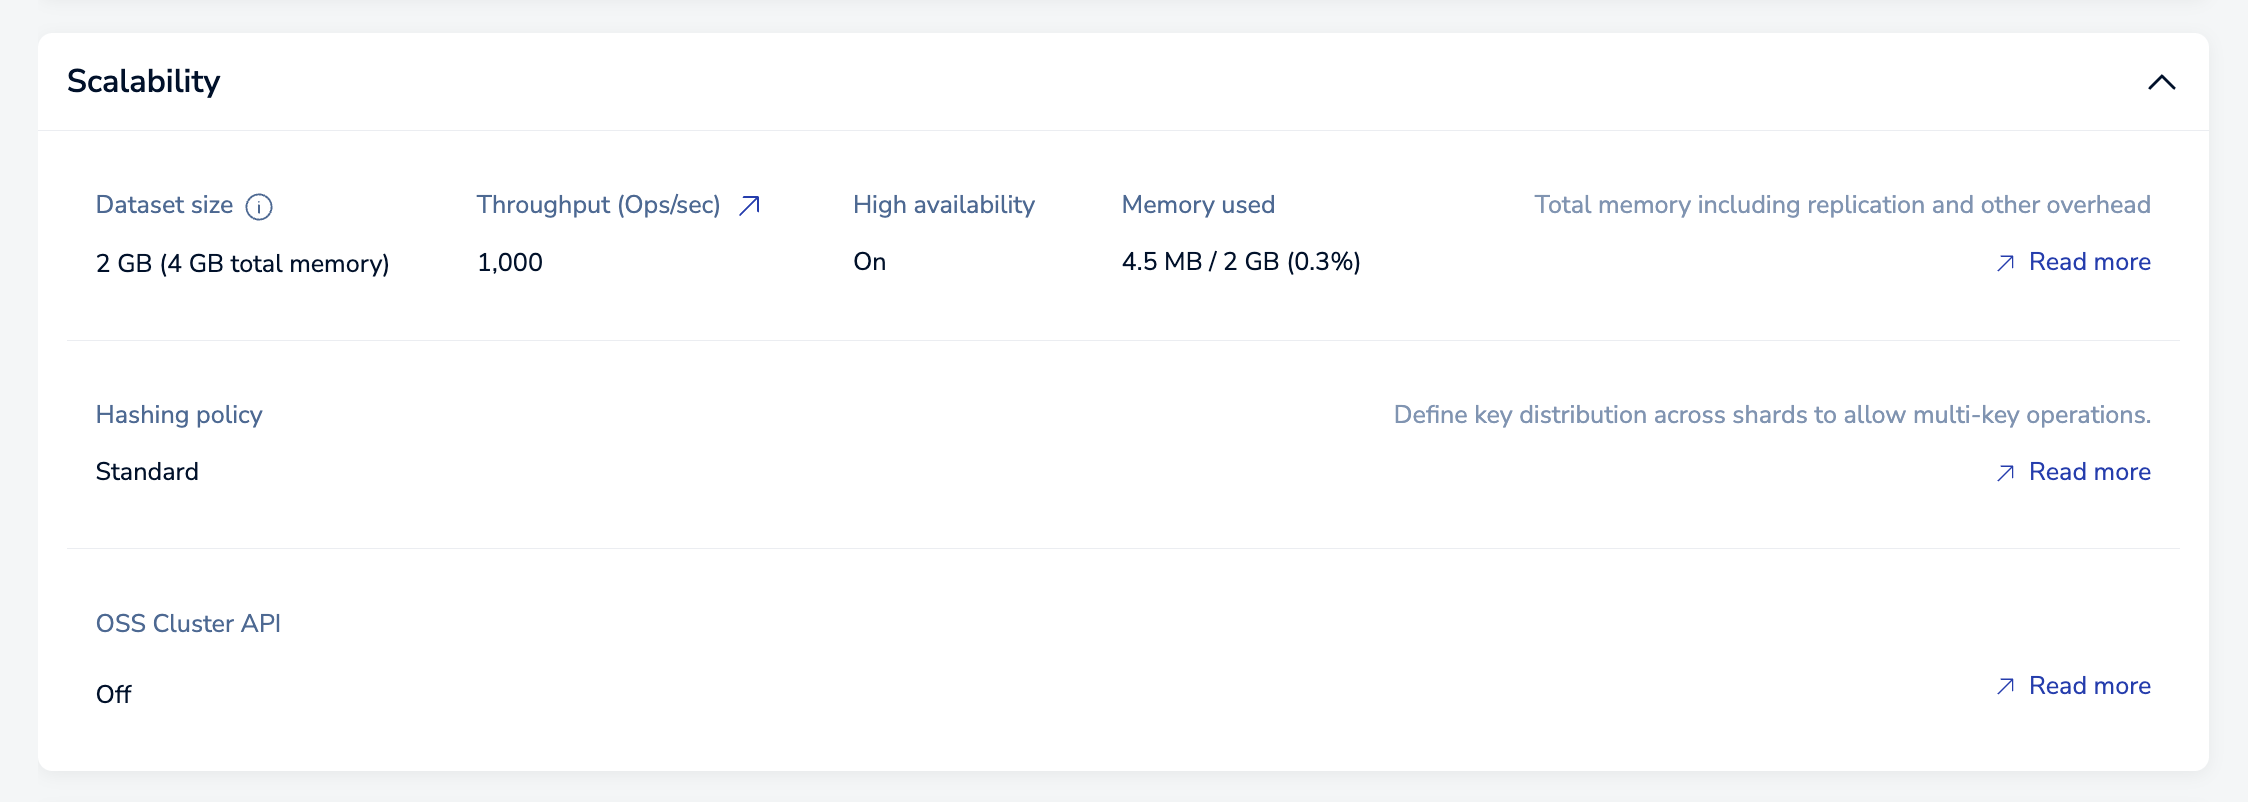
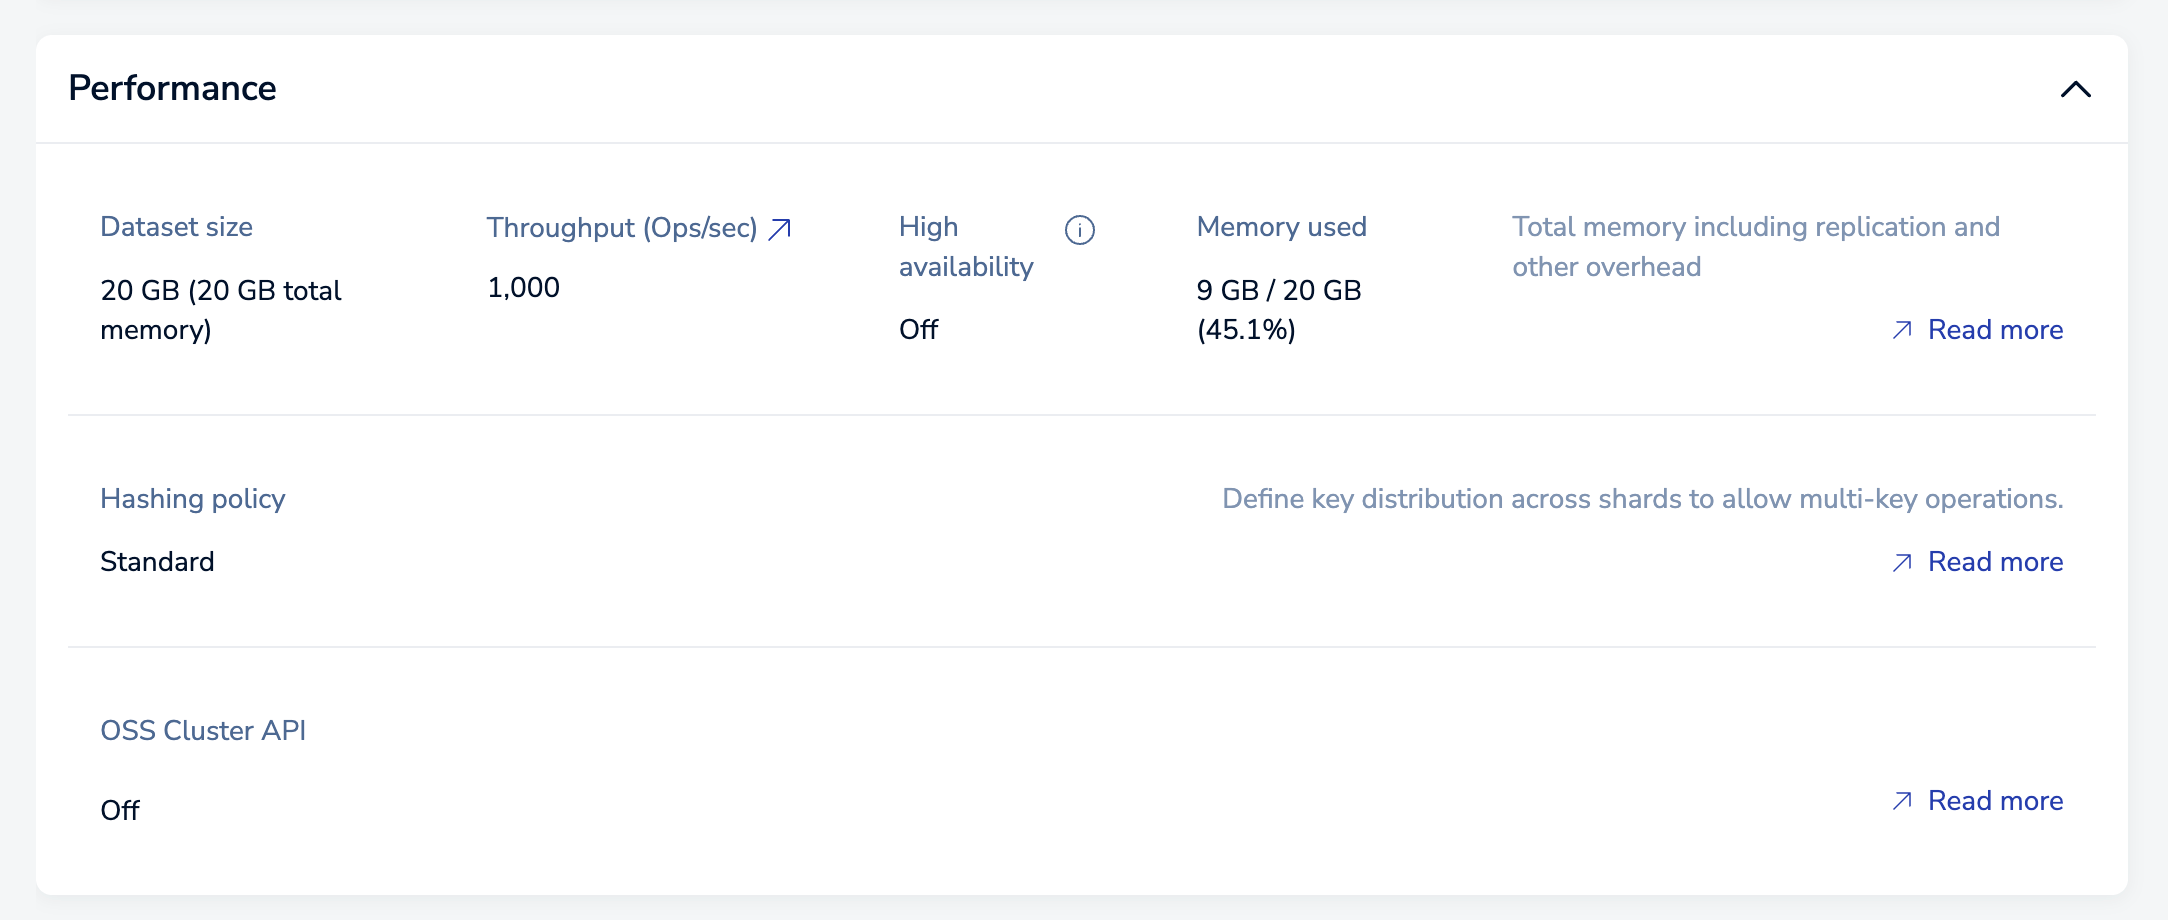
Change "Scalability" section to "Performance" section

diff --git a/content/operate/rc/databases/view-edit-database.md b/content/operate/rc/databases/view-edit-database.md
@@ -56,24 +56,22 @@ The available settings vary according to your plan, cloud provider, and design c
 | **Supported Protocol(s)** | Shows which version of RESP the database uses. See [Redis serialization protocol]({{< relref "/develop/reference/protocol-spec" >}}#resp-versions) for details |
 | **Advanced Capabilites**  | This setting appears when an [advanced capability]({{< relref "/operate/rc/databases/configuration/advanced-capabilities" >}}) is enabled for a database                                                  |
 
-### Scalability section
+### Performance section
 
-The **Scalability** section describes the memory size, throughput, and hashing policy for a database.
+The **Performance** section describes the memory size, throughput, and hashing policy for a database.
 
-{{<image filename="images/rc/database-details-configuration-tab-scalability-flexible.png" alt="Use the Scalability section to control the size, throughput, and hashing policy for a database." >}}
-
-The **Scalability** section is primarily for Redis Cloud Pro plans. Redis Cloud Essentials plans have options for memory limit and memory used.
+{{<image filename="images/rc/database-details-configuration-tab-scalability-flexible.png" alt="Use the Performance section to control the size, throughput, and hashing policy for a database." >}}
 
 | Setting name          |Description|
 |:----------------------|:----------|
-| **Dataset size** | Maximum size (in GB) for your dataset.  |
+| **Dataset size** | Maximum size (in GB) for your dataset. See [Dataset size]({{< relref "/operate/rc/configuration/sizing#dataset-size" >}}).  |
+| **Throughput**        | Defines [throughput]({{< relref "/operate/rc/configuration/sizing#throughput" >}}) in terms of maximum operations per second for the database (_Redis Cloud Pro only_). |
 | **Memory used**       | Memory currently used for your database.  |
-| **Throughput**        | Defines throughput in terms of maximum operations per second for the database |
 | **High availability**    | Replicates your data across multiple nodes; [available options]({{< relref "/operate/rc/databases/configuration/high-availability" >}}) depend on your plan type  |
-| **Hashing policy**    | Defines the [hashing policy]({{< relref "/operate/rc/databases/configuration/clustering#manage-the-hashing-policy" >}}).  |
-| **OSS Cluster API**       | Enables the [Cluster API]({{< relref "/operate/rc/databases/create-database#oss-cluster-api" >}}) for a database.<br/><br/>When this option is enabled, you cannot define a custom hashing policy.|
+| **Hashing policy**    | Defines the [hashing policy]({{< relref "/operate/rc/databases/configuration/clustering#manage-the-hashing-policy" >}}) (_Redis Cloud Pro only_).  |
+| **OSS Cluster API**       | Enables the [Cluster API]({{< relref "/operate/rc/configuration/clustering#cluster-api" >}}) for a database (_Redis Cloud Pro only_).<br/><br/>When this option is enabled, you cannot define a custom hashing policy.|
 
-To learn more about these settings and when to use them, see [Database clustering]({{< relref "/operate/rc/databases/configuration/clustering" >}}).
+To learn more about these settings and when to use them, see [Sizing]({{< relref "/operate/rc/configuration/sizing" >}}) and [Database clustering]({{< relref "/operate/rc/databases/configuration/clustering" >}}).
 
 ### Durability section
 
@@ -200,12 +198,12 @@ Here's what you can change:
 | General | Database name                  ||
 | | Supported protocol(s)                  ||
 | | Tags                                   ||
-| Scalability | Memory limit                   | |
+| Performance | Dataset size                   | |
+| | High-availability                     | _Paid plans only_ |
 | | Throughput                     | _Pro plans only_ |
 | | Hashing policy                 | _Pro plans only_ |
 | | OSS Cluster API                | _Pro plans only_ |
-| Durability | High-availability              | _Paid plans only_ |
-| | Data persistence               | _Paid plans only_ |
+| Durability | Data persistence                | _Paid plans only_ |
 | | Data eviction policy           | |
 | | Remote backup                  | _Paid plans only_ |
 | | Active-Passive Redis           | _Pro plans only_ |

diff --git a/content/operate/rc/databases/create-database/create-pro-database-existing.md b/content/operate/rc/databases/create-database/create-pro-database-existing.md
@@ -55,11 +55,11 @@ The available settings vary according to your subscription plan:
 | **Query performance factor** | *(Search and query databases on Redis 7.2 or later only)* Adds additional compute power to process your query and vector search workloads and boost your queries per second. See [Search and query sizing]({{< relref "/operate/rc/databases/configuration/advanced-capabilities#search-and-query-sizing" >}}) for more information. |
 | **Supported Protocol(s)** | Choose between RESP2 and RESP3 _(Redis 7.2 only)_. See [Redis serialization protocol]({{< relref "/develop/reference/protocol-spec" >}}#resp-versions) for details                                                                                                                                                   |
 
-## Scalability section
+## Performance section
 
-The **Scalability** section lets you manage the maximum size, throughput, and hashing policy for a database.
+The **Performance** section lets you manage the maximum size, throughput, and hashing policy for a database.
 
-{{<image filename="images/rc/database-new-flexible-scalability.png" alt="Use the Scalability section to control the size, throughput, and hashing policy for a database." >}}
+{{<image filename="images/rc/database-new-flexible-scalability.png" alt="Use the Performance section to control the size, throughput, and hashing policy for a database." >}}
 
 | Setting name        | Description                                                                                                                                                                                                                                                                                                                                   |
 |:--------------------|:----------------------------------------------------------------------------------------------------------------------------------------------------------------------------------------------------------------------------------------------------------------------------------------------------------------------------------------------|

diff --git a/content/operate/rc/databases/configuration/clustering.md b/content/operate/rc/databases/configuration/clustering.md
@@ -169,7 +169,7 @@ their order to suit your application's requirements.
 
 {{< embed-md "oss-cluster-api-intro.md"  >}}
 
-The Cluster API is only supported on Redis Cloud Pro databases. You can enable it in the Scalability section of the configuration screen.
+The Cluster API is only supported on Redis Cloud Pro databases. You can enable it in the Performance section of the configuration screen.
 
 The Redis Cluster API is supported only when a database uses the [standard hashing policy](#standard-hashing-policy) and does not use Search and Query or Time Series advanced capabilities.
 
